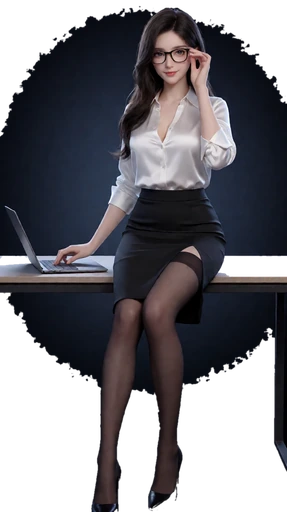
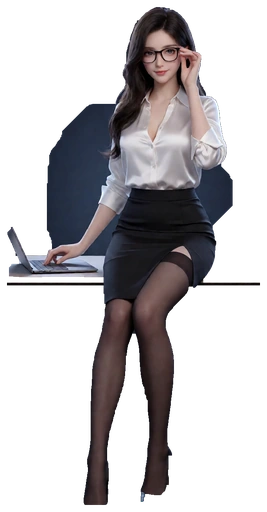
fix: refine author portrait cutouts

diff --git a/scripts/refine-author-cutout.py b/scripts/refine-author-cutout.py
@@ -1,0 +1,32 @@
+from pathlib import Path
+import cv2
+import numpy as np
+from PIL import Image
+
+src = Path(r'D:\pi-web\output\imagegen\portrait-poses-diagnostic-20260927-author')
+out = Path(r'D:\pi-web\output\imagegen\portrait-poses-diagnostic-20260927-author-grabcut')
+out.mkdir(exist_ok=True)
+for name in ['daydreaming', 'working', 'responding', 'listening', 'resting', 'reading']:
+    im = cv2.imread(str(src / f'{name}.png'))
+    if im is None:
+        raise FileNotFoundError(name)
+    h, w = im.shape[:2]
+    mask = np.zeros((h, w), np.uint8)
+    bgd = np.zeros((1, 65), np.float64)
+    fgd = np.zeros((1, 65), np.float64)
+    rect = (int(w * .06), int(h * .015), int(w * .88), int(h * .97))
+    cv2.grabCut(im, mask, rect, bgd, fgd, 8, cv2.GC_INIT_WITH_RECT)
+    alpha = np.where((mask == 1) | (mask == 3), 255, 0).astype(np.uint8)
+    kernel = np.ones((5, 5), np.uint8)
+    alpha = cv2.morphologyEx(alpha, cv2.MORPH_CLOSE, kernel, iterations=2)
+    alpha = cv2.morphologyEx(alpha, cv2.MORPH_OPEN, kernel, iterations=1)
+    rgba = cv2.cvtColor(im, cv2.COLOR_BGR2RGBA)
+    rgba[:, :, 3] = alpha
+    ys, xs = np.where(alpha > 0)
+    if len(xs):
+        pad = 18
+        rgba = rgba[max(0, ys.min()-pad):min(h, ys.max()+pad+1), max(0, xs.min()-pad):min(w, xs.max()+pad+1)]
+    height = 512
+    width = max(1, int(rgba.shape[1] * height / rgba.shape[0]))
+    Image.fromarray(rgba).resize((width, height), Image.Resampling.LANCZOS).save(out / f'{name}.png')
+    print(name, 'coverage', round(float((alpha > 0).mean()), 3), 'size', width, height)
